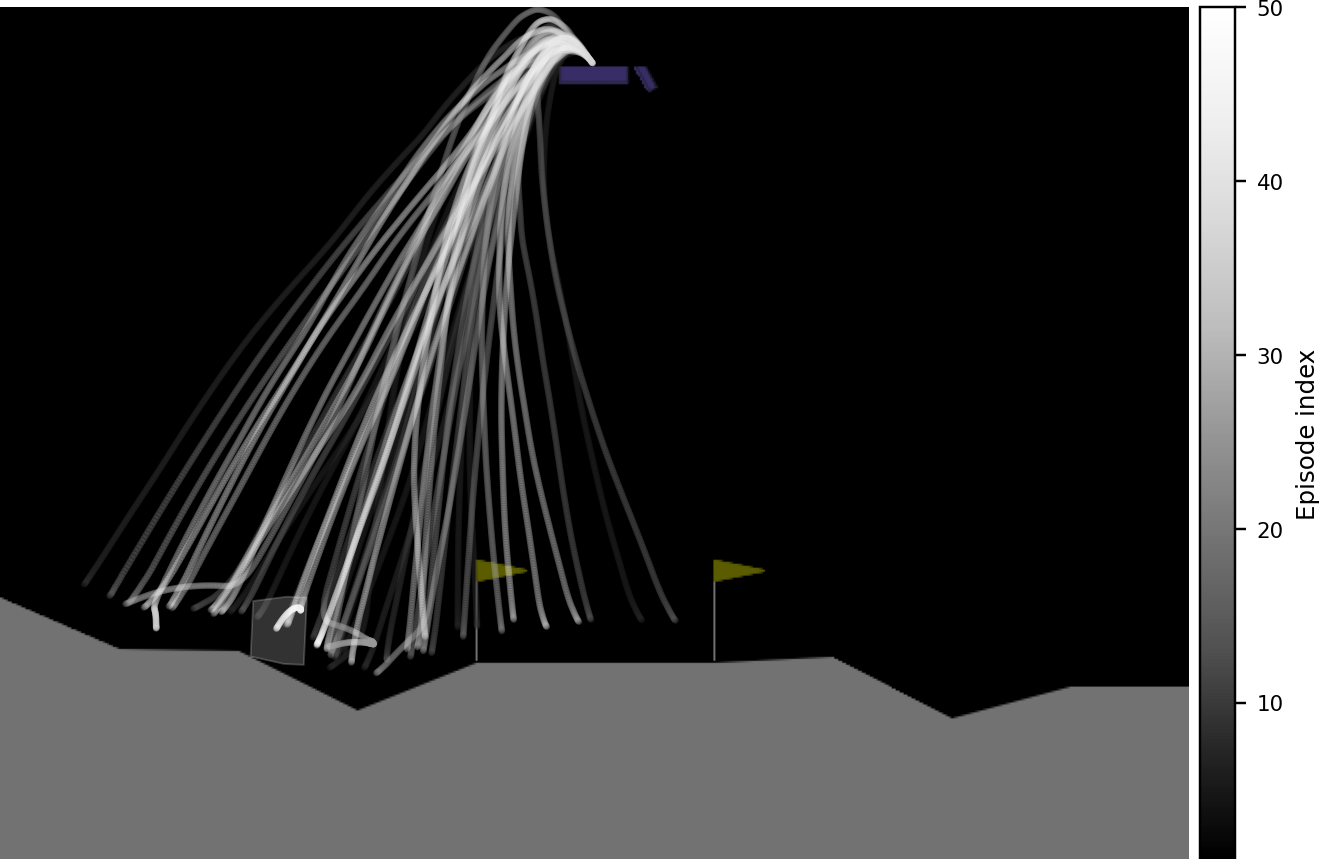
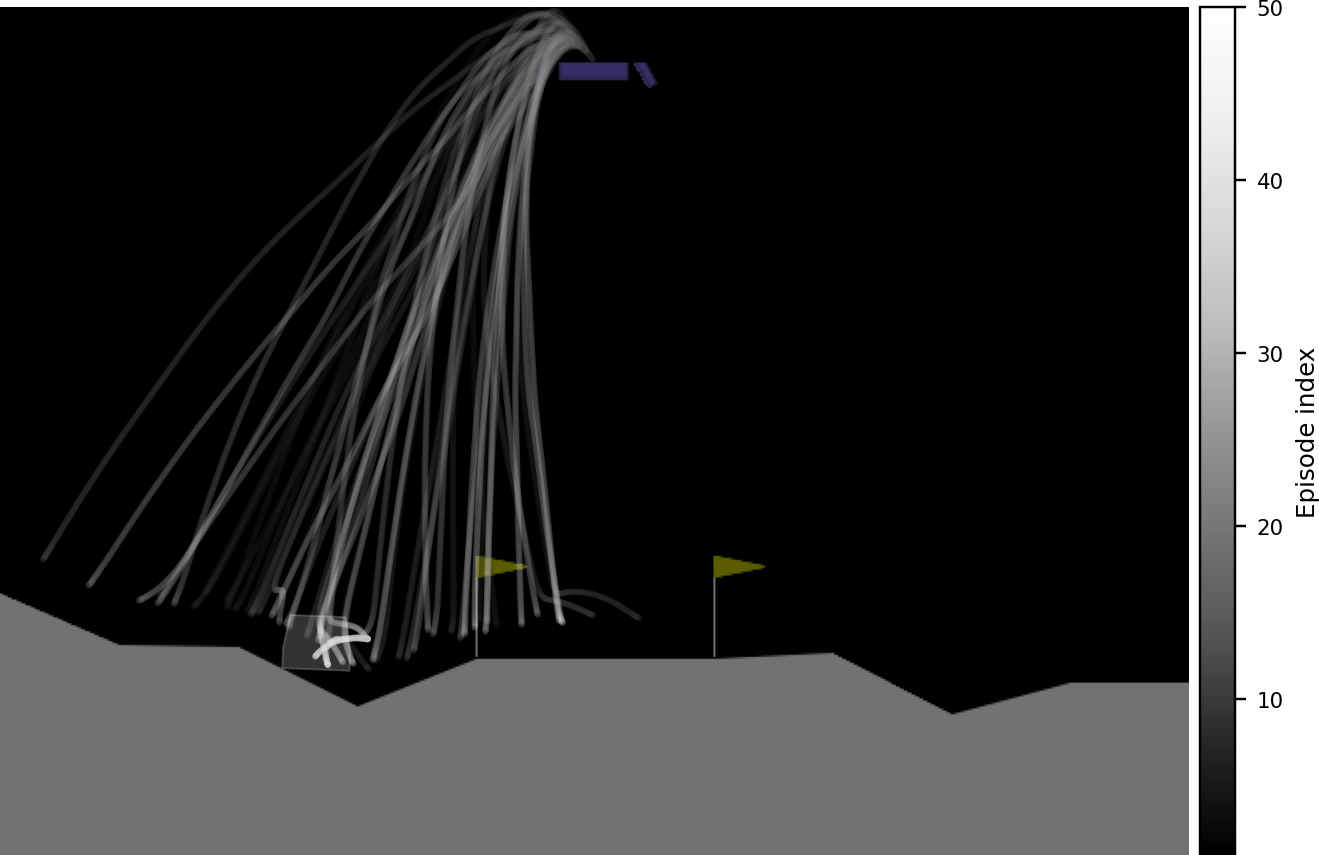
ladnding position

diff --git a/scripts/lunarlander_overlay.py b/scripts/lunarlander_overlay.py
@@ -180,24 +180,25 @@ def _prepare_background(frame: np.ndarray) -> np.ndarray:
     return np.clip(img, 0, 255).astype(np.uint8)
 
 
-def _step_alpha_colors(
+def _segment_colours(
     base_rgba: np.ndarray,
     progress: np.ndarray,
-    alpha_start: float = 0.1,
-    alpha_end: float = 0.9,
-    scale: float = 1.0,
+    alpha_scale: float,
+    shade_strength: float = 0.55,
+    alpha_range: Tuple[float, float] = (0.05, 0.5),
 ) -> np.ndarray:
-    """Return base colour with per-segment alpha ramp from alpha_start → alpha_end.
+    """Compute RGBA for each segment by shading and fading based on progress."""
 
-    - progress 0.0 => alpha ≈ alpha_start (more transparent)
-    - progress 1.0 => alpha ≈ alpha_end (less transparent)
-    - scale multiplies the alpha (clipped to [0, 1])
-    """
     p = np.clip(progress, 0.0, 1.0)
-    alpha = alpha_start + (alpha_end - alpha_start) * p
-    alpha = np.clip(alpha * scale, 0.0, 1.0)
+
+    alpha = alpha_range[0] + (alpha_range[1] - alpha_range[0]) * p
+    alpha = np.clip(alpha * alpha_scale, 0.0, 1.0)
+
     base_rgb = np.broadcast_to(base_rgba[:3], (p.shape[0], 3))
-    return np.concatenate([base_rgb, alpha[:, None]], axis=1)
+    shade = 1.0 - shade_strength * (1.0 - p[:, None])
+    rgb = np.clip(base_rgb * shade, 0.0, 1.0)
+
+    return np.concatenate([rgb, alpha[:, None]], axis=1)
 
 
 def _smooth_series(data: np.ndarray, window: int = 5) -> np.ndarray:
@@ -404,7 +405,7 @@ def save_overlay(
 
         segments = np.stack([np.column_stack([xs[:-1], ys[:-1]]), np.column_stack([xs[1:], ys[1:]])], axis=1)
         segment_progress = 0.5 * (steps[:-1] + steps[1:])
-        colors = _step_alpha_colors(base_color, segment_progress, alpha_start=0.1, alpha_end=0.9, scale=alpha)
+        colors = _segment_colours(base_color, segment_progress, alpha_scale=alpha)
         colors = np.asarray(colors, dtype=float)
         lc = LineCollection(
             segments,
